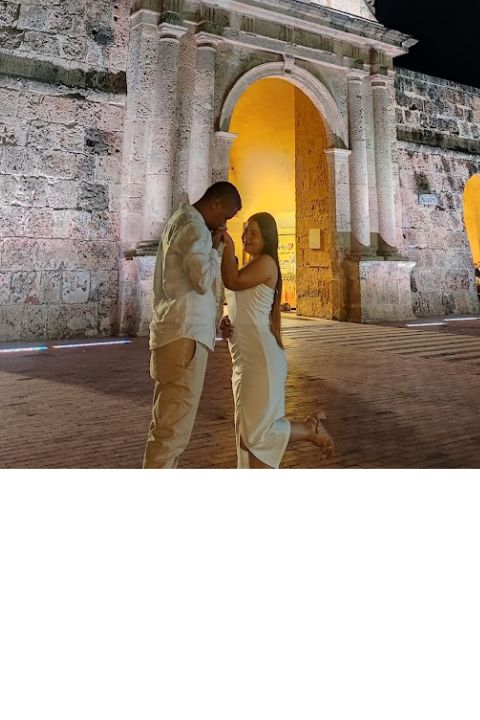
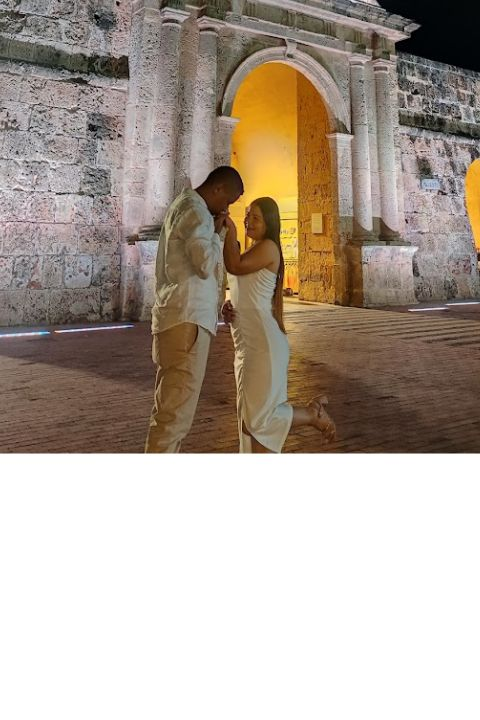
Agregar cronometro

diff --git a/style.css b/style.css
@@ -3,7 +3,7 @@
     --verde-claro: #A3B18A;
     --blanco: #FFFFFF;
     --texto-oscuro: #4A4A4A;
-    --fondo-app: #e7e7e7;
+    --fondo-app: #FAFAFA;
 }
 
 * {
@@ -162,7 +162,7 @@ body.bloquear-scroll {
     font-size: 4.5rem; 
     line-height: 0.9;
     font-weight: normal;
-    margin-bottom: 45px; /* Aumenta este margen para empujar el texto más hacia abajo */
+    margin-bottom: 20px;
     text-shadow: 2px 2px 6px rgba(255, 255, 255, 0.9);
 }
 
@@ -170,7 +170,6 @@ body.bloquear-scroll {
     color: var(--texto-oscuro);
     font-size: 0.95rem;
     line-height: 1.7;
-    margin-bottom: 30px;
     font-weight: 500; /* Un poco más de grosor para leerse mejor */
     width: 90%;
 }
@@ -220,12 +219,6 @@ body.bloquear-scroll {
     transform: scaleX(-1); 
 }
 
-
-.ampersand {
-    color: #4A5D33;
-    font-size: 2.5rem;
-}
-
 .animar-fade-up {
     opacity: 0;
     transform: translateY(30px);
@@ -242,12 +235,13 @@ body.bloquear-scroll {
 
 /* --- SECCIÓN SAVE THE DATE --- */
 .save-the-date {
-    padding: 80px 20px;
+    padding: 50px 20px;
     background-color: var(--fondo-app);
     text-align: center;
     display: flex;
     flex-direction: column;
     align-items: center;
+    min-height: 20px;
 }
 
 .titulo-seccion {
@@ -447,4 +441,77 @@ body.bloquear-scroll {
 .numero-pases {
     font-size: 1.3rem;
     font-weight: bold;
+}
+
+/* --- SECCIÓN CRONÓMETRO --- */
+.cronometro-section {
+    padding: 60px 20px 100px; /* Aumentamos padding para dar aire a la imagen */
+    text-align: center;
+    position: relative;
+    overflow: hidden;
+
+    /* --- LA MAGIA DEL FONDO CON DIFUMINADO BLANCO --- */
+    /* Capa 1 (Filtro): Degradado blanco muy suave (90% opacidad) para asegurar contraste */
+    /* Capa 2 (Imagen): Tu textura o foto decorativa */
+    background-image: 
+        linear-gradient(rgba(255, 255, 255, 0.432), rgba(255, 255, 255, 0.486)), 
+        url('assets/2.jpg'); /* <-- CAMBIA ESTA URL POR TU ASSET LOCAL 'assets/fondo-cronometro.jpg' */
+    
+    background-size: cover; /* Cubre toda la sección */
+    background-position: center; /* Centra la textura */
+    background-repeat: no-repeat;
+}
+
+.titulo-cronometro,
+.cronometro-container {
+    position: relative;
+    z-index: 1;
+}
+
+.titulo-cronometro {
+    font-family: 'Great Vibes', cursive;
+    color: var(--verde-oliva);
+    font-size: 3rem;
+    margin-bottom: 30px;
+    font-weight: normal;
+}
+
+.cronometro-container {
+    display: flex;
+    justify-content: center;
+    gap: 12px; /* Separación entre círculos */
+    max-width: 400px;
+    margin: 0 auto;
+}
+
+/* El diseño de los círculos */
+.tiempo-caja {
+    background-color: var(--fondo-app);
+    border: 1px solid var(--verde-claro);
+    border-radius: 50%; /* Los hace completamente redondos */
+    width: 75px;
+    height: 75px;
+    display: flex;
+    flex-direction: column;
+    align-items: center;
+    justify-content: center;
+    box-shadow: 0 4px 10px rgba(0,0,0,0.03); /* Sombra muy sutil */
+}
+
+.tiempo-numero {
+    font-family: 'Montserrat', sans-serif;
+    font-size: 1.5rem;
+    font-weight: 600;
+    color: var(--texto-oscuro);
+    line-height: 1;
+}
+
+.tiempo-etiqueta {
+    font-family: 'Montserrat', sans-serif;
+    font-size: 0.65rem;
+    color: var(--verde-oliva);
+    text-transform: uppercase;
+    letter-spacing: 1px;
+    margin-top: 6px;
+    font-weight: 600;
 }

diff --git a/script.js b/script.js
@@ -1,3 +1,10 @@
+
+if (history.scrollRestoration) {
+    history.scrollRestoration = 'manual';
+}
+// Forzamos la vista al tope exacto de la página
+window.scrollTo(0, 0);
+
 document.addEventListener("DOMContentLoaded", () => {
     
    const pantallaSobre = document.getElementById('pantalla-sobre');
@@ -118,5 +125,48 @@ document.addEventListener("DOMContentLoaded", () => {
         // Usamos decodeURIComponent por si el nombre tiene espacios o tildes
         elementoNombreFinal.textContent = decodeURIComponent(nombreInvitado);
     }
+
+    // --- LÓGICA DEL CRONÓMETRO DE DÍAS FALTANTES ---
+    
+    // Configuramos la fecha exacta: 16 de Agosto de 2026 a las 15:00:00 (3:00 PM)
+    const fechaBoda = new Date("Aug 16, 2026 15:00:00").getTime();
+
+    // Función que se ejecuta cada 1 segundo (1000ms)
+    const intervaloCronometro = setInterval(() => {
+        
+        // Obtenemos la fecha y hora de este mismo instante
+        const ahora = new Date().getTime();
+        
+        // Encontramos la distancia entre ahora y la fecha de la boda
+        const distancia = fechaBoda - ahora;
+
+        // Cálculos matemáticos para extraer días, horas, minutos y segundos
+        const dias = Math.floor(distancia / (1000 * 60 * 60 * 24));
+        const horas = Math.floor((distancia % (1000 * 60 * 60 * 24)) / (1000 * 60 * 60));
+        const minutos = Math.floor((distancia % (1000 * 60 * 60)) / (1000 * 60));
+        const segundos = Math.floor((distancia % (1000 * 60)) / 1000);
+
+        // Ubicamos los elementos en el HTML
+        const elDias = document.getElementById("dias");
+        
+        // Si el elemento existe, inyectamos los números.
+        // El operador (dias < 10 ? "0" + dias : dias) es para que los números del 0 al 9 tengan un "0" delante (ej: 09, 08)
+        if (elDias) {
+            elDias.textContent = dias; // Los días pueden ser más de 99, así que no le ponemos cero inicial
+            document.getElementById("horas").textContent = horas < 10 ? "0" + horas : horas;
+            document.getElementById("minutos").textContent = minutos < 10 ? "0" + minutos : minutos;
+            document.getElementById("segundos").textContent = segundos < 10 ? "0" + segundos : segundos;
+        }
+
+        // ¿Qué pasa si el cronómetro llega a cero? 
+        if (distancia < 0) {
+            clearInterval(intervaloCronometro); // Detenemos el reloj
+            const contenedorCrono = document.querySelector(".cronometro-container");
+            if (contenedorCrono) {
+                // Cambiamos los círculos por un mensaje de celebración
+                contenedorCrono.innerHTML = "<div style='font-size: 1.2rem; color: var(--verde-oliva); font-weight: 600;'>¡El gran día ha llegado! 🎉</div>";
+            }
+        }
+    }, 1000);
 
 });

diff --git a/index.html b/index.html
@@ -80,6 +80,29 @@
             </button>
         </section>
 
+        <section class="cronometro-section" id="cronometro">
+            <h2 class="titulo-cronometro animar-scroll">Faltan</h2>
+            
+            <div class="cronometro-container animar-scroll">
+                <div class="tiempo-caja">
+                    <span id="dias" class="tiempo-numero">00</span>
+                    <span class="tiempo-etiqueta">Días</span>
+                </div>
+                <div class="tiempo-caja">
+                    <span id="horas" class="tiempo-numero">00</span>
+                    <span class="tiempo-etiqueta">Hrs</span>
+                </div>
+                <div class="tiempo-caja">
+                    <span id="minutos" class="tiempo-numero">00</span>
+                    <span class="tiempo-etiqueta">Min</span>
+                </div>
+                <div class="tiempo-caja">
+                    <span id="segundos" class="tiempo-numero">00</span>
+                    <span class="tiempo-etiqueta">Seg</span>
+                </div>
+            </div>
+        </section>
+
     </main>
 
     <script src="script.js"></script>
